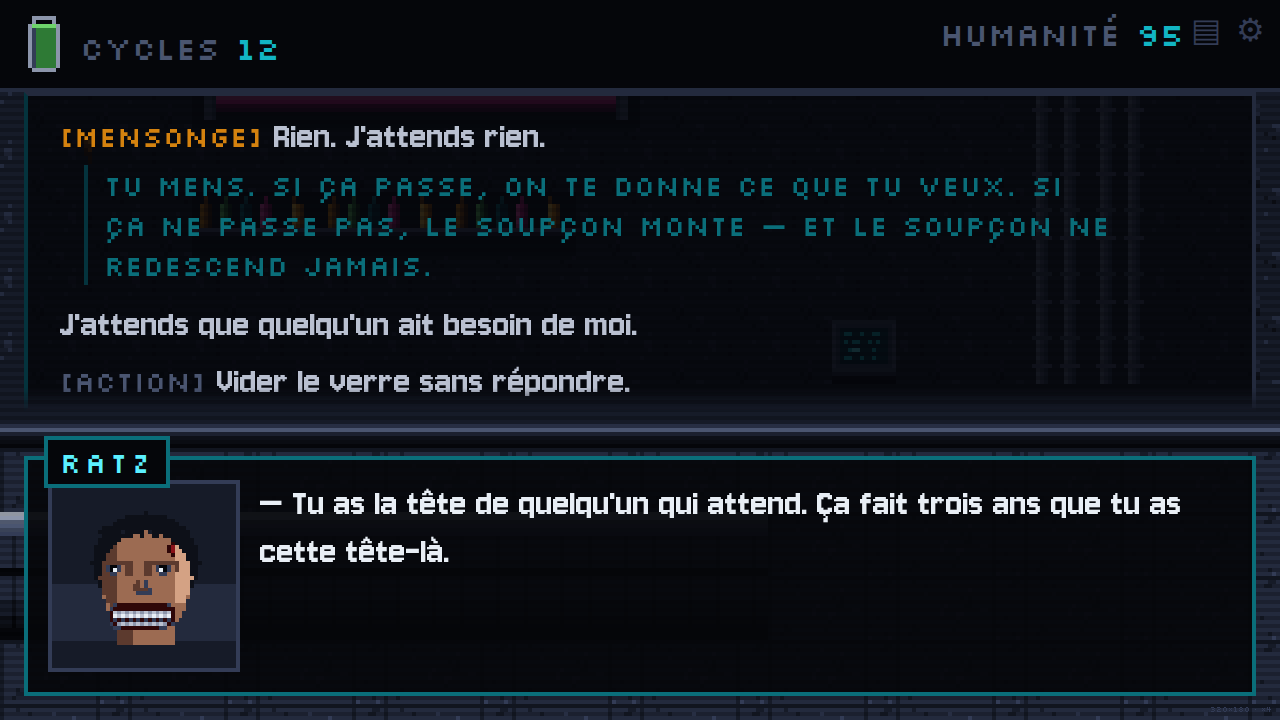
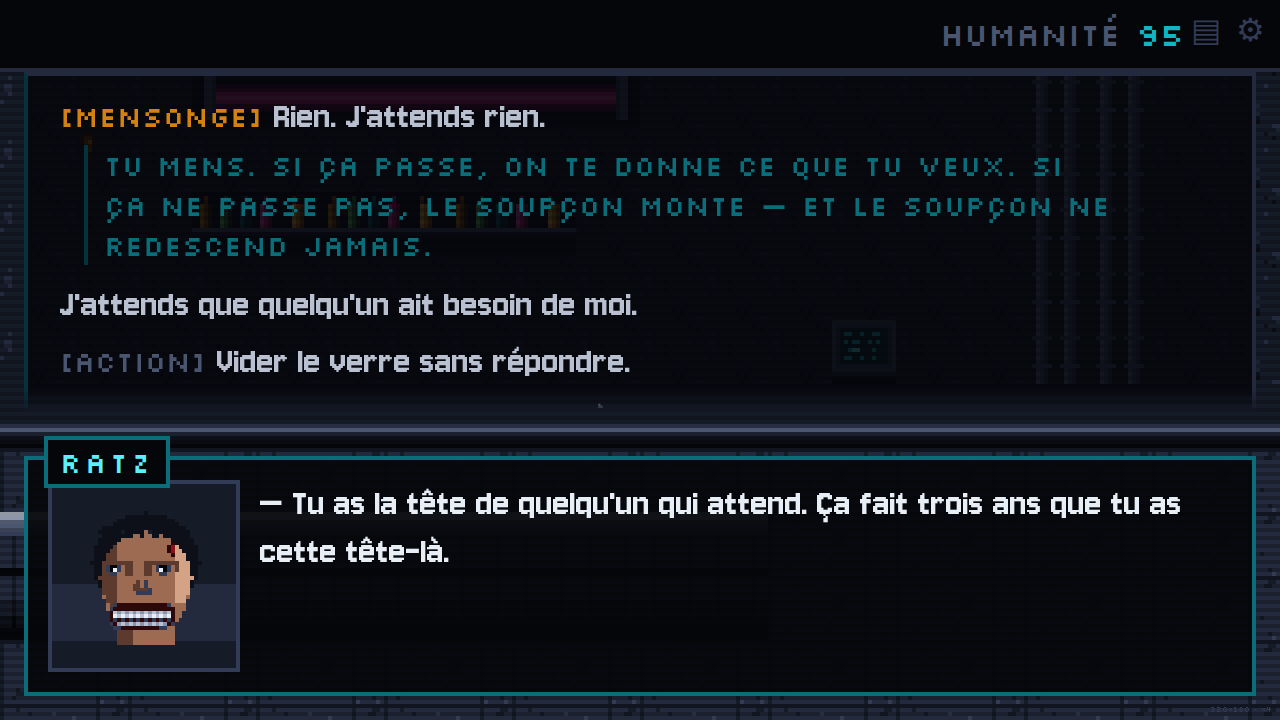
L'horloge ne demarre plus avant la toxine
`# horloge:demarrer` vivait dans le prologue depuis plusieurs lots sans que
rien ne le lise — le tableau des tags le donnait « reserve ». Pendant ce temps
l'ouverture, qui est un flashback de trois ans AVANT que Molly ne pose les sacs
de toxine, affichait une fiole pleine et douze cycles : un compte a rebours qui
n'avait pas commence.

Le tag leve maintenant `runStore.horlogeLancee`, et ni le HUD ni la fiche
n'affichent de cycles avant. Il est ephemere, comme `sfx` : garde dans la mise
en scene, il se redeclencherait a chaque replique. Les parties sauvegardees
avant ce champ le recoivent a vrai — elles ont forcement passe le prologue.

tools/jouer.mjs passe de 60 a 120 palettes de choix. L'atelier du Finn est un
menu reentrant ou un marcheur aleatoire tourne longtemps : a 60, une partie sur
cinq epuisait le budget et se declarait « boucle non fermee » alors que le
recit allait tres bien. Quatre parties d'affilee atteignent une fin.

Verifie : typecheck, 81 tests (les deux nouveaux casses volontairement pour
verifier qu'ils voient), build, validate:assets, validate:narrative (8/8 fins),
et les captures du README refaites — l'ouverture n'a plus d'horloge, le hub en
a une.

Claude-Session: https://claude.ai/code/session_01NLnRsb5JomfCPoSu8MZofS

Changed region(s): [[0.0, 0.0306, 1.0, 0.55]]

diff --git a/src/stores/runStore.ts b/src/stores/runStore.ts
@@ -26,6 +26,12 @@ interface RunEtat {
   soupcon: number;
   competences: Record<string, number>;
   implants: string[];
+  /**
+   * Faux tant que la toxine n'a pas ete posee. L'ouverture est un flashback de
+   * trois ans plus tot : y afficher une fiole pleine et douze cycles annonce un
+   * compte a rebours qui n'a pas commence.
+   */
+  horlogeLancee: boolean;
   plans: string[];
   scripts: string[];
   equipage: string[];
@@ -52,6 +58,7 @@ interface RunActions {
   placesLibres: () => number;
   gagnerCredits: (n: number) => void;
   acquerir: (categorie: 'plans' | 'scripts' | 'implants', id: string) => void;
+  demarrerHorloge: () => void;
   terminer: () => void;
 }
 
@@ -63,6 +70,7 @@ const ETAT_INITIAL: RunEtat = {
   soupcon: 0,
   competences: { hacking: 1, social: 1, combat: 1 },
   implants: [],
+  horlogeLancee: false,
   plans: [],
   scripts: ['perce_glace'],
   equipage: [],
@@ -83,6 +91,7 @@ export const useRunStore = create<RunEtat & RunActions>()(
           competences: { ...ETAT_INITIAL.competences },
           scripts: [...ETAT_INITIAL.scripts],
           implants: [],
+          horlogeLancee: false,
           plans: [],
           equipage: [],
           drapeaux: {},
@@ -144,13 +153,19 @@ export const useRunStore = create<RunEtat & RunActions>()(
       acquerir: (categorie, id) =>
         set((e) => (e[categorie].includes(id) ? e : { [categorie]: [...e[categorie], id] })),
 
+      demarrerHorloge: () => set({ horlogeLancee: true }),
+
       terminer: () => set({ terminee: true }),
     }),
     {
       name: 'neuromancer-run',
       version: VERSION_RUN,
       storage: createJSONStorage(() => localStorage, { replacer, reviver }),
-      migrate: (etat) => ({ ...ETAT_INITIAL, ...(etat as Partial<RunEtat>) }) as RunEtat & RunActions,
+      // `horlogeLancee: true` en repli : une partie sauvegardee avant ce champ
+      // a forcement passe le prologue, donc son horloge tourne deja.
+      migrate: (etat) =>
+        ({ ...ETAT_INITIAL, horlogeLancee: true, ...(etat as Partial<RunEtat>) }) as RunEtat &
+          RunActions,
     },
   ),
 );

diff --git a/src/react/Dialogue.tsx b/src/react/Dialogue.tsx
@@ -28,6 +28,7 @@ export function Dialogue({ moteur }: Props) {
   const etat = useSyncExternalStore(moteur.souscrire, moteur.lire);
   const cycles = useRunStore((e) => e.cycles);
   const humanite = useRunStore((e) => e.humanite);
+  const horlogeLancee = useRunStore((e) => e.horlogeLancee);
   const vitesseTexte = useUiStore((e) => e.vitesseTexte);
 
   const { affiche, complet, toutReveler } = useMachineAEcrire(
@@ -111,15 +112,25 @@ export function Dialogue({ moteur }: Props) {
   return (
     <div className="dlg">
       <div className="dlg__hud">
+        {/* L'ouverture est un flashback de trois ans plus tot : la toxine n'y
+            est pas encore posee. Afficher une fiole pleine et douze cycles y
+            annoncerait un compte a rebours qui n'a pas commence — c'est le
+            recit qui le lance, par `# horloge:demarrer`. */}
         <span>
-          {/* La fiole se vide avant que le chiffre n'inquiete. C'est le
-              minuteur de la partie : il merite d'etre vu, pas lu. */}
-          <i
-            className="hud__fiole"
-            style={{ backgroundPositionX: `calc(${-12 * Math.max(0, Math.min(12, cycles))} * var(--px))` }}
-            aria-hidden="true"
-          />
-          CYCLES <b>{cycles}</b>
+          {horlogeLancee && (
+            <>
+              {/* La fiole se vide avant que le chiffre n'inquiete. C'est le
+                  minuteur de la partie : il merite d'etre vu, pas lu. */}
+              <i
+                className="hud__fiole"
+                style={{
+                  backgroundPositionX: `calc(${-12 * Math.max(0, Math.min(12, cycles))} * var(--px))`,
+                }}
+                aria-hidden="true"
+              />
+              CYCLES <b>{cycles}</b>
+            </>
+          )}
         </span>
         <span>
           HUMANITÉ <b>{humanite}</b>

diff --git a/tests/unit/moteur.test.ts b/tests/unit/moteur.test.ts
@@ -426,3 +426,40 @@ describe('acte II — la pose d’implants', () => {
     expect(avec[i]?.etiquette).toBe('IMPLANT');
   });
 });
+
+// --- L'horloge de toxine ---------------------------------------------------
+//
+// `# horloge:demarrer` a vecu plusieurs lots dans le contenu sans que rien ne
+// le lise : le tableau des tags de CLAUDE.md le donnait « reserve ». Pendant
+// ce temps l'ouverture — un flashback de trois ans avant la toxine — affichait
+// une fiole pleine et douze cycles.
+describe('l’horloge ne part qu’au moment où le récit la lance', () => {
+  beforeEach(() => {
+    useRunStore.getState().nouvellePartie();
+    useProfileStore.getState().reinitialiser();
+  });
+
+  it('reste à l’arrêt pendant toute l’ouverture', () => {
+    const m = neuf();
+    m.demarrer();
+    for (let garde = 0; garde < 60 && m.lire().peutContinuer; garde++) m.continuer();
+    expect(useRunStore.getState().horlogeLancee).toBe(false);
+  });
+
+  it('démarre quand le prologue pose la toxine', () => {
+    const m = neuf();
+    m.demarrer();
+    m.reprendre('prologue');
+    let garde = 0;
+    while (garde++ < 400 && !useRunStore.getState().horlogeLancee) {
+      if (m.lire().peutContinuer) {
+        m.continuer();
+        continue;
+      }
+      const choix = m.lire().choix;
+      if (choix.length === 0) break;
+      m.choisir(0);
+    }
+    expect(useRunStore.getState().horlogeLancee).toBe(true);
+  });
+});

diff --git a/src/dialogue/moteur.ts b/src/dialogue/moteur.ts
@@ -65,7 +65,7 @@ interface Plongee {
  * pour choisir.
  */
 /** Cles de mise en scene qui ne valent que pour la replique qui les porte. */
-const EPHEMERES: readonly (keyof MiseEnScene)[] = ['sfx', 'entracte', 'glose'];
+const EPHEMERES: readonly (keyof MiseEnScene)[] = ['sfx', 'entracte', 'glose', 'horloge'];
 
 const KNOT_FLATLINE = 'fin_flatline_reseau';
 const KNOT_HUB = 'hub';
@@ -92,6 +92,7 @@ export class MoteurDialogue {
     entracte: null,
     fin: null,
     glose: null,
+    horloge: null,
   };
   /**
    * La replique affichee, et celle d'apres, deja lue.
@@ -313,6 +314,10 @@ export class MoteurDialogue {
         for (const cle of Object.keys(maj) as (keyof MiseEnScene)[]) {
           if (maj[cle] !== null) this.miseEnScene[cle] = maj[cle];
         }
+        // L'horloge est un evenement, pas un decor : elle s'applique ici, au
+        // fil de la lecture, comme les effets `~` du recit. Le tag est ensuite
+        // ephemere, sans quoi il se redeclencherait a chaque replique.
+        if (maj.horloge === 'demarrer') useRunStore.getState().demarrerHorloge();
       }
 
       // Les lignes vides ne sont pas des repliques : on les saute sans compter.

diff --git a/src/dialogue/tags.ts b/src/dialogue/tags.ts
@@ -27,6 +27,11 @@ export interface MiseEnScene {
   fin: string | null;
   /** Explication de regle que le recit demande a montrer ici. */
   glose: string | null;
+  /**
+   * `demarrer` quand le recit vient de poser la toxine. Avant ce signal, le
+   * compte a rebours n'existe pas dans la fiction et le HUD ne le montre pas.
+   */
+  horloge: string | null;
 }
 
 export function parseTagsLigne(tags: readonly string[]): MiseEnScene {
@@ -40,6 +45,7 @@ export function parseTagsLigne(tags: readonly string[]): MiseEnScene {
     entracte: null,
     fin: null,
     glose: null,
+    horloge: null,
   };
 
   for (const tag of tags) {
@@ -71,6 +77,9 @@ export function parseTagsLigne(tags: readonly string[]): MiseEnScene {
         break;
       case 'glose':
         mes.glose = a ?? null;
+        break;
+      case 'horloge':
+        mes.horloge = a ?? null;
         break;
     }
   }

diff --git a/src/react/Etat.tsx b/src/react/Etat.tsx
@@ -54,8 +54,14 @@ export function Etat({ onFermer }: { onFermer: () => void }) {
       <p className="etat__titre">SABLE</p>
 
       <div className="etat__grille">
-        <span className="etat__cle">CYCLES</span>
-        <span className="etat__val">{run.cycles}</span>
+        {/* Meme regle que le HUD : pas d'horloge avant que le recit ne la
+          * lance. La fiche est atteignable des l'ouverture. */}
+        {run.horlogeLancee && (
+          <>
+            <span className="etat__cle">CYCLES</span>
+            <span className="etat__val">{run.cycles}</span>
+          </>
+        )}
         <span className="etat__cle">HUMANITÉ</span>
         <span className="etat__val">{run.humanite}</span>
         <span className="etat__cle">CRÉDITS</span>

diff --git a/CLAUDE.md b/CLAUDE.md
@@ -99,7 +99,7 @@ comportement voulu — c'est la réplique prononcée par Sable. Ne jamais redupl
 | `# glose:<id>` | ligne | Demande l'explication de règle `<id>` de `data/gloses.json` |
 | `# hub` | knot | Lu par le validateur narratif |
 | `# entracte:<texte libre>` | ligne | Carton plein écran bloquant — saut dans le temps |
-| `# horloge:demarrer` | ligne | **Réservé** — écrit dans le contenu, pas encore consommé par `tags.ts` |
+| `# horloge:demarrer` | ligne | Lance le compte à rebours de toxine. **Éphémère**, comme `sfx` |
 
 Deux valeurs de `# bg:` ne désignent pas une tilemap : **`aucun`** vide le décor (sans lui, une
 scène sans tag hériterait du décor précédent, faute de pouvoir l'effacer) et **`matrice`**
@@ -159,7 +159,7 @@ mise en scene d'une replique a la suivante. Tout ne doit pas survivre a cette co
 |---|---|
 | `locuteur` `decor` `musique` `fin` | **collante** — elle decrit la scene |
 | `portrait` `expression` | collante, mais **annulee des qu'un nouveau `# speaker:` arrive** |
-| `sfx` `entracte` `glose` | **une replique, pas une de plus** |
+| `sfx` `entracte` `glose` `horloge` | **une replique, pas une de plus** |
 
 Les deux exceptions ont ete des bugs reels, muets, et longs a voir :
 
@@ -327,6 +327,11 @@ chemins que le moteur emprunte de sa propre initiative sont nommés en tête de 
 - **Le knot de retour doit être un chemin Ink complet.** `hub.retour` et non `retour` : un stitch
   n'est pas joignable par son nom seul, et `ChoosePathString` échoue à l'exécution — pas à la
   compilation.
+- **L'horloge ne démarre pas avec la partie.** `# horloge:demarrer`, posé à la fin du prologue
+  quand Molly annonce les sacs de toxine, lève `runStore.horlogeLancee` ; avant ce signal, ni le
+  HUD ni la fiche n'affichent de cycles. L'ouverture est un flashback de trois ans plus tôt : y
+  montrer une fiole pleine et douze cycles annonçait un compte à rebours qui n'avait pas
+  commencé. Le tag vivait dans le contenu depuis plusieurs lots sans que rien ne le lise.
 - **L'horloge est relue à chaque passage par `hub`.** C'est le seul endroit où la toxine tue ;
   ailleurs, `cycles_restants` descend sans conséquence immédiate.
 - **`cycles_restants` est observé dans les deux sens.** Sans l'observateur ajouté au lot J, un

diff --git a/README.md b/README.md
@@ -374,6 +374,7 @@ initial branchés les uns aux autres. Ce qui tourne aujourd'hui :
 - [x] Transition de branchement et carton de mort par glace noire
 - [x] Scènes de friction par paire d'équipiers — six paires écrites, une par partie
 - [x] **Les implants** : plans volés posés chez le Finn, effets en plongée, répliques `[IMPLANT]`
+- [x] L'horloge de toxine ne démarre qu'au moment où le récit la pose
 
 ---
 
